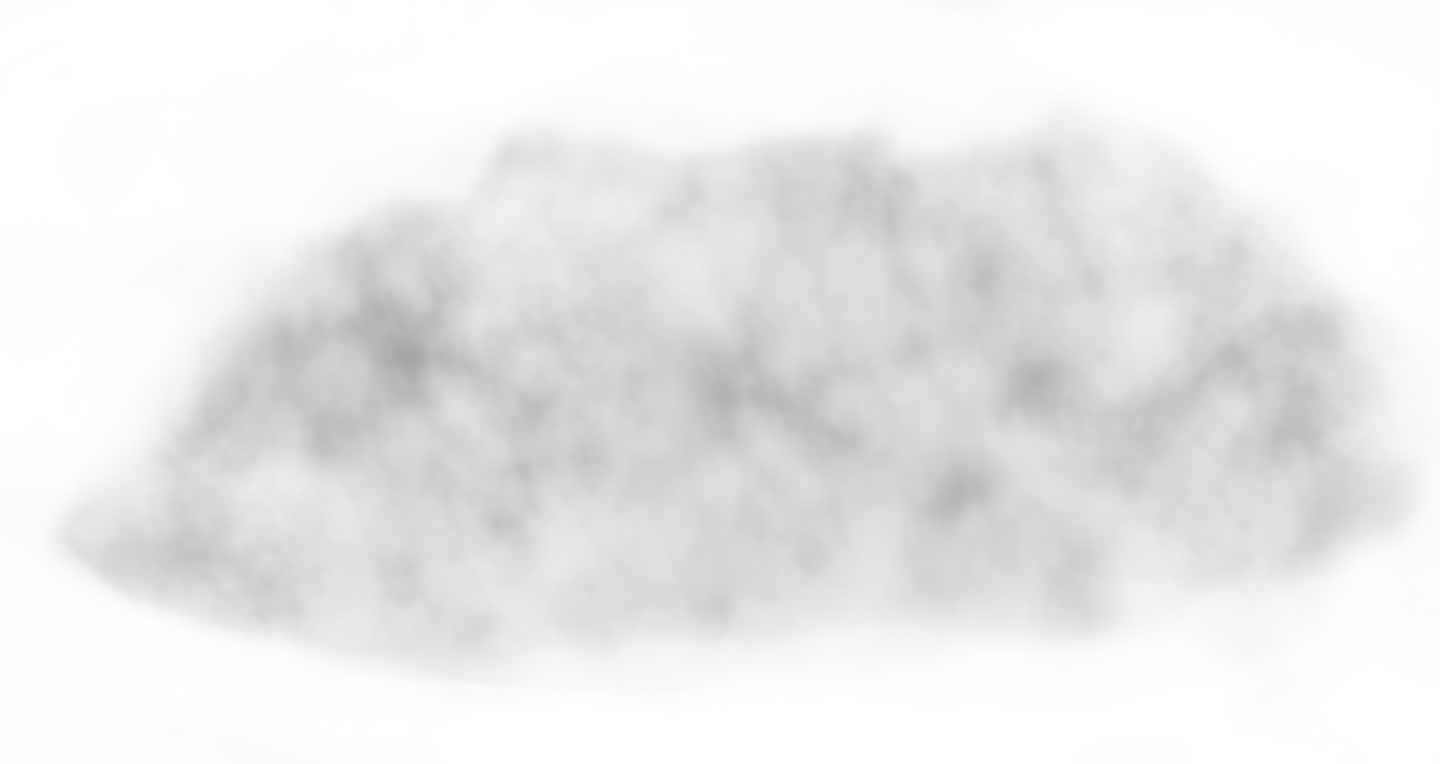
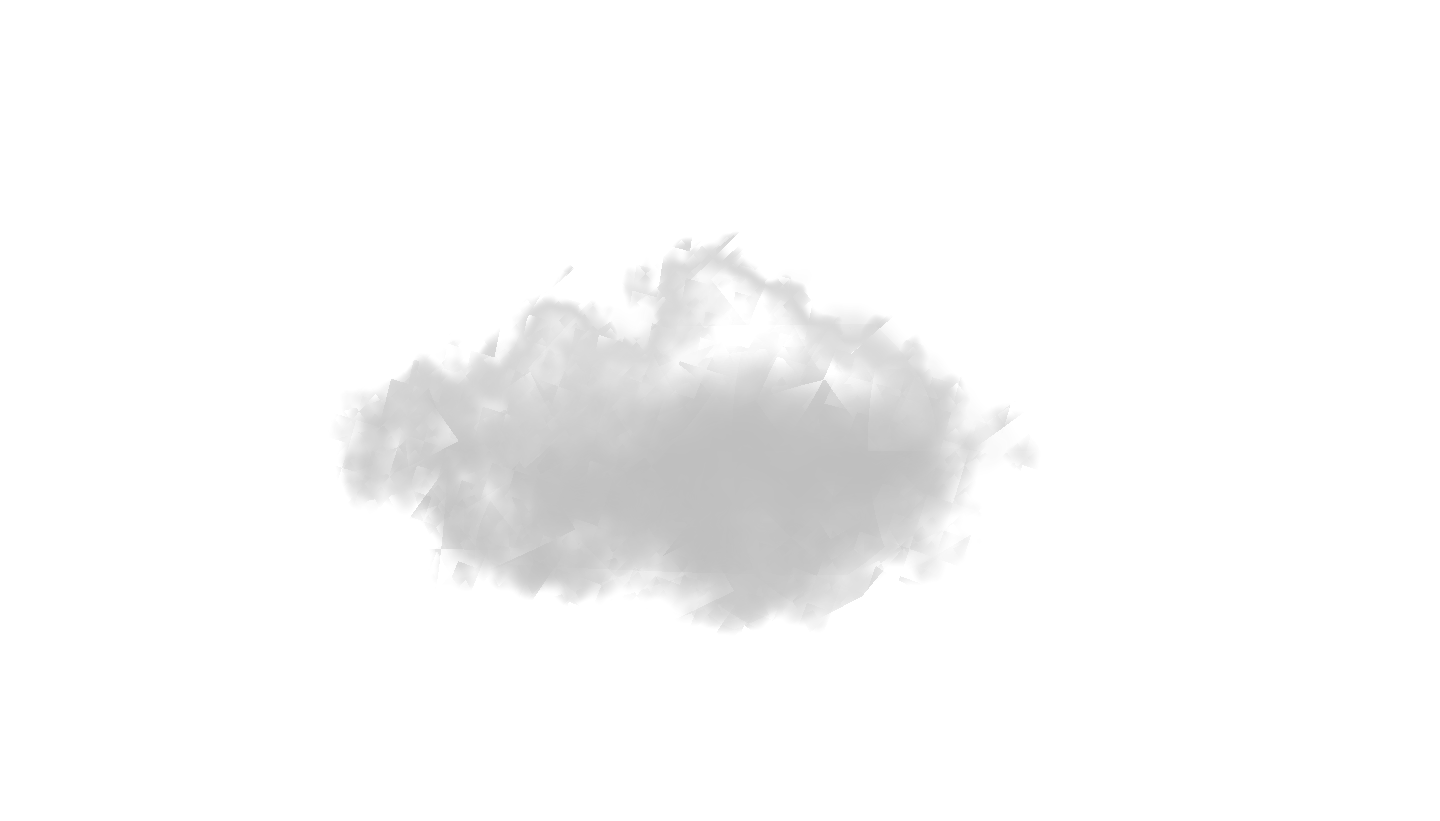
Added new cloud textures

diff --git a/index.html b/index.html
@@ -7,50 +7,151 @@
 </head>
 <body>
   <div id="cesiumContainer"></div>
+  <div id="toolbar">
+    <input type="checkbox" id="toggle-cumulus-layer" name="toggle-cumulus-layer" value="CumulusLayer" checked>
+    <label for="toggle-cumulus-layer" id="white-text">Cumulus Layer</label><br>
+    <input type="checkbox" id="toggle-stratocumulus-layer" name="toggle-stratocumulus-layer" value="StratocumulusLayer" checked>
+    <label for="toggle-stratocumulus-layer" id="white-text">stratocumulus Layer</label><br>
+  </div>
   <script>
     // Get your token from https://cesium.com/ion/tokens
     Cesium.Ion.defaultAccessToken = 'eyJhbGciOiJIUzI1NiIsInR5cCI6IkpXVCJ9.eyJqdGkiOiJiYWZkZjRjZi0wYWVlLTRmYmUtOWNkOC0zNGUyOGE4ZWM4YzIiLCJpZCI6Mzg1MCwic2NvcGVzIjpbImFzciIsImdjIl0sImlhdCI6MTUzOTA2MTIyOH0.Nu7vAd57CwhRNnAi3L8Q0CABXfkOlzhaVqfiRXK3i-c';
     const viewer = new Cesium.Viewer('cesiumContainer', {
       terrainProvider: Cesium.createWorldTerrain()
     });
-    const camera = viewer.scene.camera; 
-    
-    // Get position of camera (in Cartesian3)
-    const cameraPos = camera.positionCartographic;
-    const cameraPosLat = 40.03883;
-    const cameraPosLon = -75.59777;
-    
-    // Generate some random positions to place clouds around the camera position
-    const size = 1; // 1.1132 km. Size of the square area (in degrees) that the clouds will be generated in (1 degrees = 111.32 km)
-    const step = 0.1;
-    const maxCloudAltitude = 7.6e3;
-    const minCloudAltitude = 3e3;
-    for(let i = -size/2; i < size/2 + step; i+=step) {
-      for(let j=-size/2; j < size/2 + step; j+=step) {
-        let latitude = cameraPosLat + i + Math.random() * step;
-        let longitude = cameraPosLon + j + Math.random() * step;
-        // Compute a random altitude between two altitudes which clouds typically appears
-        let altitude = Math.floor(Math.random() * maxCloudAltitude) + minCloudAltitude;
-        viewer.entities.add({
-          position: Cesium.Cartesian3.fromDegrees(longitude, latitude, altitude),
-          billboard: {
-            //image: "https://cdn.glitch.com/adc0001d-18b0-4d7f-a1d5-acd92a31a93c%2Fnibonstratus_cloud_texture.png?v=1611981572115",
-            image: './images/ellipsoid.png',
-            sizeInMeters: true,
-            scale: 2
-          },
-        });
+    const camera = viewer.scene.camera;
+    var entities = viewer.entities;
+
+    //Create Entity "folders" to allow us to turn on/off entities as a group.
+    var cumulusCloudContainer = entities.add(new Cesium.Entity());
+    var stratocumulusCloudContainer = entities.add(new Cesium.Entity());
+
+    // CLOUD GENERATION FUNCTIONS
+    function cumulusLayer() {
+      // Get position of camera (in Cartesian3)
+      const cameraPos = camera.positionCartographic;
+      const cameraPosLat = cameraPos.latitude * 180/Math.PI;
+      const cameraPosLon = cameraPos.longitude * 180/Math.PI;
+      
+      // Generate some random positions to place clouds around the camera position
+      const size = 1; // 1.1132 km. Size of the square area (in degrees) that the clouds will be generated in (1 degrees = 111.32 km)
+      const step = 0.1;
+      const maxCloudAltitude = 3e3;
+      const minCloudAltitude = 2e3;
+      for(let i = -size/2; i < size/2 + step; i+=step) {
+        for(let j=-size/2; j < size/2 + step; j+=step) {
+          let latitude = cameraPosLat + i + Math.random() * step;
+          let longitude = cameraPosLon + j + Math.random() * step;
+          // Compute a random altitude between two altitudes which clouds typically appears
+          let altitude = Math.floor(Math.random() * maxCloudAltitude) + minCloudAltitude;
+          viewer.entities.add({
+            parent: cumulusCloudContainer,
+            position: Cesium.Cartesian3.fromDegrees(longitude, latitude, altitude),
+            billboard: {
+              //image: "https://cdn.glitch.com/adc0001d-18b0-4d7f-a1d5-acd92a31a93c%2Fnibonstratus_cloud_texture.png?v=1611981572115",
+              image: `./images/cumulus_${Math.floor(Math.random() * 6) + 1}.png`,
+              dimensions: true,
+              scale: 4
+            },
+          });
+        }
       }
     }
+
+    function stratocumulusLayer() {
+      // Get position of camera (in Cartesian3)
+      const cameraPos = camera.positionCartographic;
+      const cameraPosLat = cameraPos.latitude * 180/Math.PI;
+      const cameraPosLon = cameraPos.longitude * 180/Math.PI;
+      
+      // Generate some random positions to place clouds around the camera position
+      const size = 1; // 1.1132 km. Size of the square area (in degrees) that the clouds will be generated in (1 degrees = 111.32 km)
+      const step = 0.2;
+      const maxCloudAltitude = 3e3;
+      const minCloudAltitude = 2e3;
+      for(let i = -size/2; i < size/2 + step; i+=step) {
+        for(let j=-size/2; j < size/2 + step; j+=step) {
+          let latitude = cameraPosLat + i + Math.random() * step;
+          let longitude = cameraPosLon + j + Math.random() * step;
+          // Compute a random altitude between two altitudes which clouds typically appears
+          let altitude = Math.floor(Math.random() * maxCloudAltitude) + minCloudAltitude;
+          viewer.entities.add({
+            parent: stratocumulusCloudContainer,
+            position: Cesium.Cartesian3.fromDegrees(longitude, latitude, altitude),
+            billboard: {
+              image: `./images/cumulus_${Math.floor(Math.random() * 2) + 1}.png`, // Right now it's just really big cumulus clouds. TODO: make actual cumulus clusters
+              sizeInMeters: true,
+              scale: 6
+            },
+          });
+        }
+      }
+    }
+
+    // function cirrusLayer() {
+    //   // Get position of camera (in Cartesian3)
+    //   const cameraPos = camera.positionCartographic;
+    //   const cameraPosLat = cameraPos.latitude * 180/Math.PI;
+    //   const cameraPosLon = cameraPos.longitude * 180/Math.PI;
+      
+    //   // Generate some random positions to place clouds around the camera position
+    //   const span = 1; // 1.1132 km. Size of the square area (in degrees) that the clouds will be generated in (1 degrees = 111.32 km)
+    //   const step = 0.2;
+    //   const maxCloudAltitude = 7e3;
+    //   const minCloudAltitude = 6e3;
+    //   const sideLengthX = 0.001; 
+    //   const sideLengthY = 0.002;
+    //   for(let i = -span/2; i < span/2 + step; i+=step) {
+    //     for(let j=-span/2; j < span/2 + step; j+=step) {
+    //       console.log('here');
+    //       let latitude = cameraPosLat + i + Math.random() * step;
+    //       let longitude = cameraPosLon + j + Math.random() * step;
+    //       // Compute a random altitude between two altitudes which clouds typically appears
+    //       let altitude = Math.floor(Math.random() * maxCloudAltitude) + minCloudAltitude;
+    //       // let center = Cesium.Cartesian3.fromDegrees(longitude, latitude, altitude); // Center of rectangle
+    //       viewer.entities.add({
+    //         parent: stratocumulusCloudContainer,
+    //         //position: Cesium.Cartesian3.fromDegrees(longitude, latitude, altitude),
+    //         rectangle: {
+    //           coordinates: Cesium.Rectangle.fromDegrees(
+    //             latitude - sideLengthX,
+    //             longitude + sideLengthY,
+    //             latitude + sideLengthX,
+    //             longitude - sideLengthY
+    //           ),
+    //           material: `./images/cirrus_${1}.png`, // Right now it's just really big cumulus clouds. TODO: make actual cumulus clusters
+    //           height: altitude
+    //         },
+    //       });
+    //     }
+    //   }
+    // }
+
+    // UI ACTION LISTENERS
+    var UI_toggleCumulusLayer = document.querySelector('#toggle-cumulus-layer');
+    UI_toggleCumulusLayer.addEventListener('change',function() {
+      cumulusCloudContainer.show = UI_toggleCumulusLayer.checked;
+    });
+
+    var UI_toggleStatocumulusLayer = document.querySelector('#toggle-stratocumulus-layer');
+    UI_toggleStatocumulusLayer.addEventListener('change',function() {
+      stratocumulusCloudContainer.show = UI_toggleStatocumulusLayer.checked;
+    });
     
     camera.setView({
-        destination : new Cesium.Cartesian3(1223492.0847721598, -4727278.059257026, 4089499.895268888),
+        destination : new Cesium.Cartesian3(-2709226.5068758843, -4271652.782730928, 3871990.2917652987),
         orientation : {
-            direction : new Cesium.Cartesian3(-0.2716278044959114, 0.5533620236116934, 0.7874063796090953),
-            up : new Cesium.Cartesian3(0.2038711108083718, -0.7665148745155504, 0.6090086348518965),
+            direction : new Cesium.Cartesian3(-0.18947950947081874, 0.8120077307898012, 0.5520334778147933),
+            up : new Cesium.Cartesian3(-0.45337507593664794, -0.5710497241501201, 0.6843633925536277),
         },
         duration : 3
     })
+
+    // Adding layers
+    //cumulusLayer();
+    //stratocumulusLayer();
+    //cirrusLayer();
+
   </script>
 </body>
 </html>

diff --git a/style.css b/style.css
@@ -8,3 +8,12 @@ body {
 #cesiumContainer {
   height: 100%;
 }
+#toolbar {
+  left: 2%;
+  position: absolute;
+  top: 3%;
+  z-index: 2;
+}
+#white-text {
+  color: white;
+}
